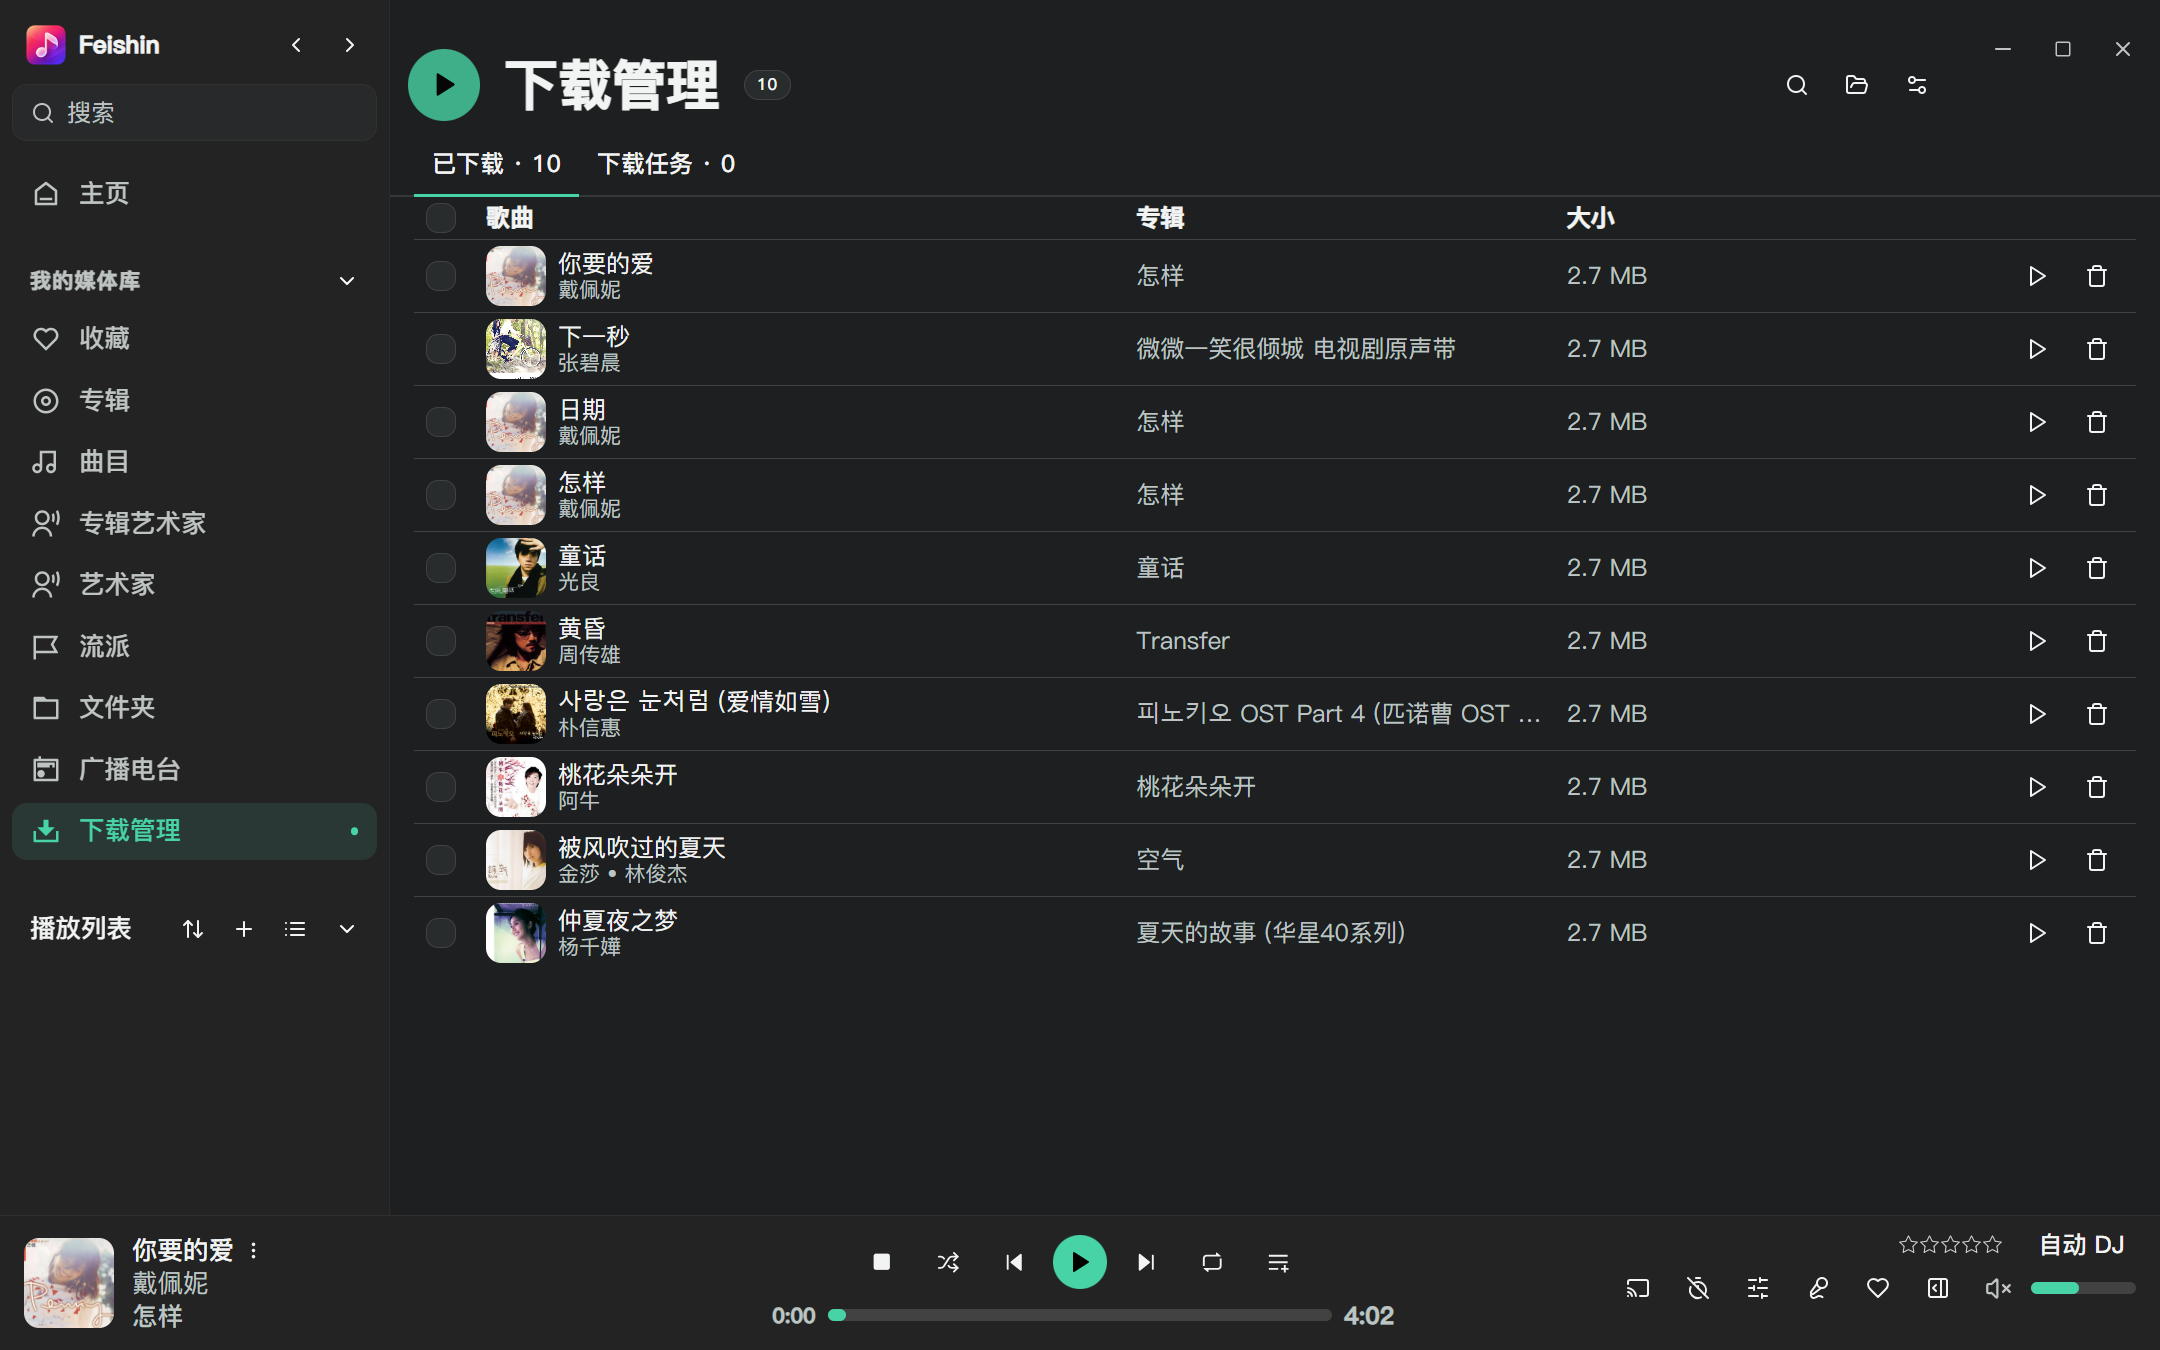
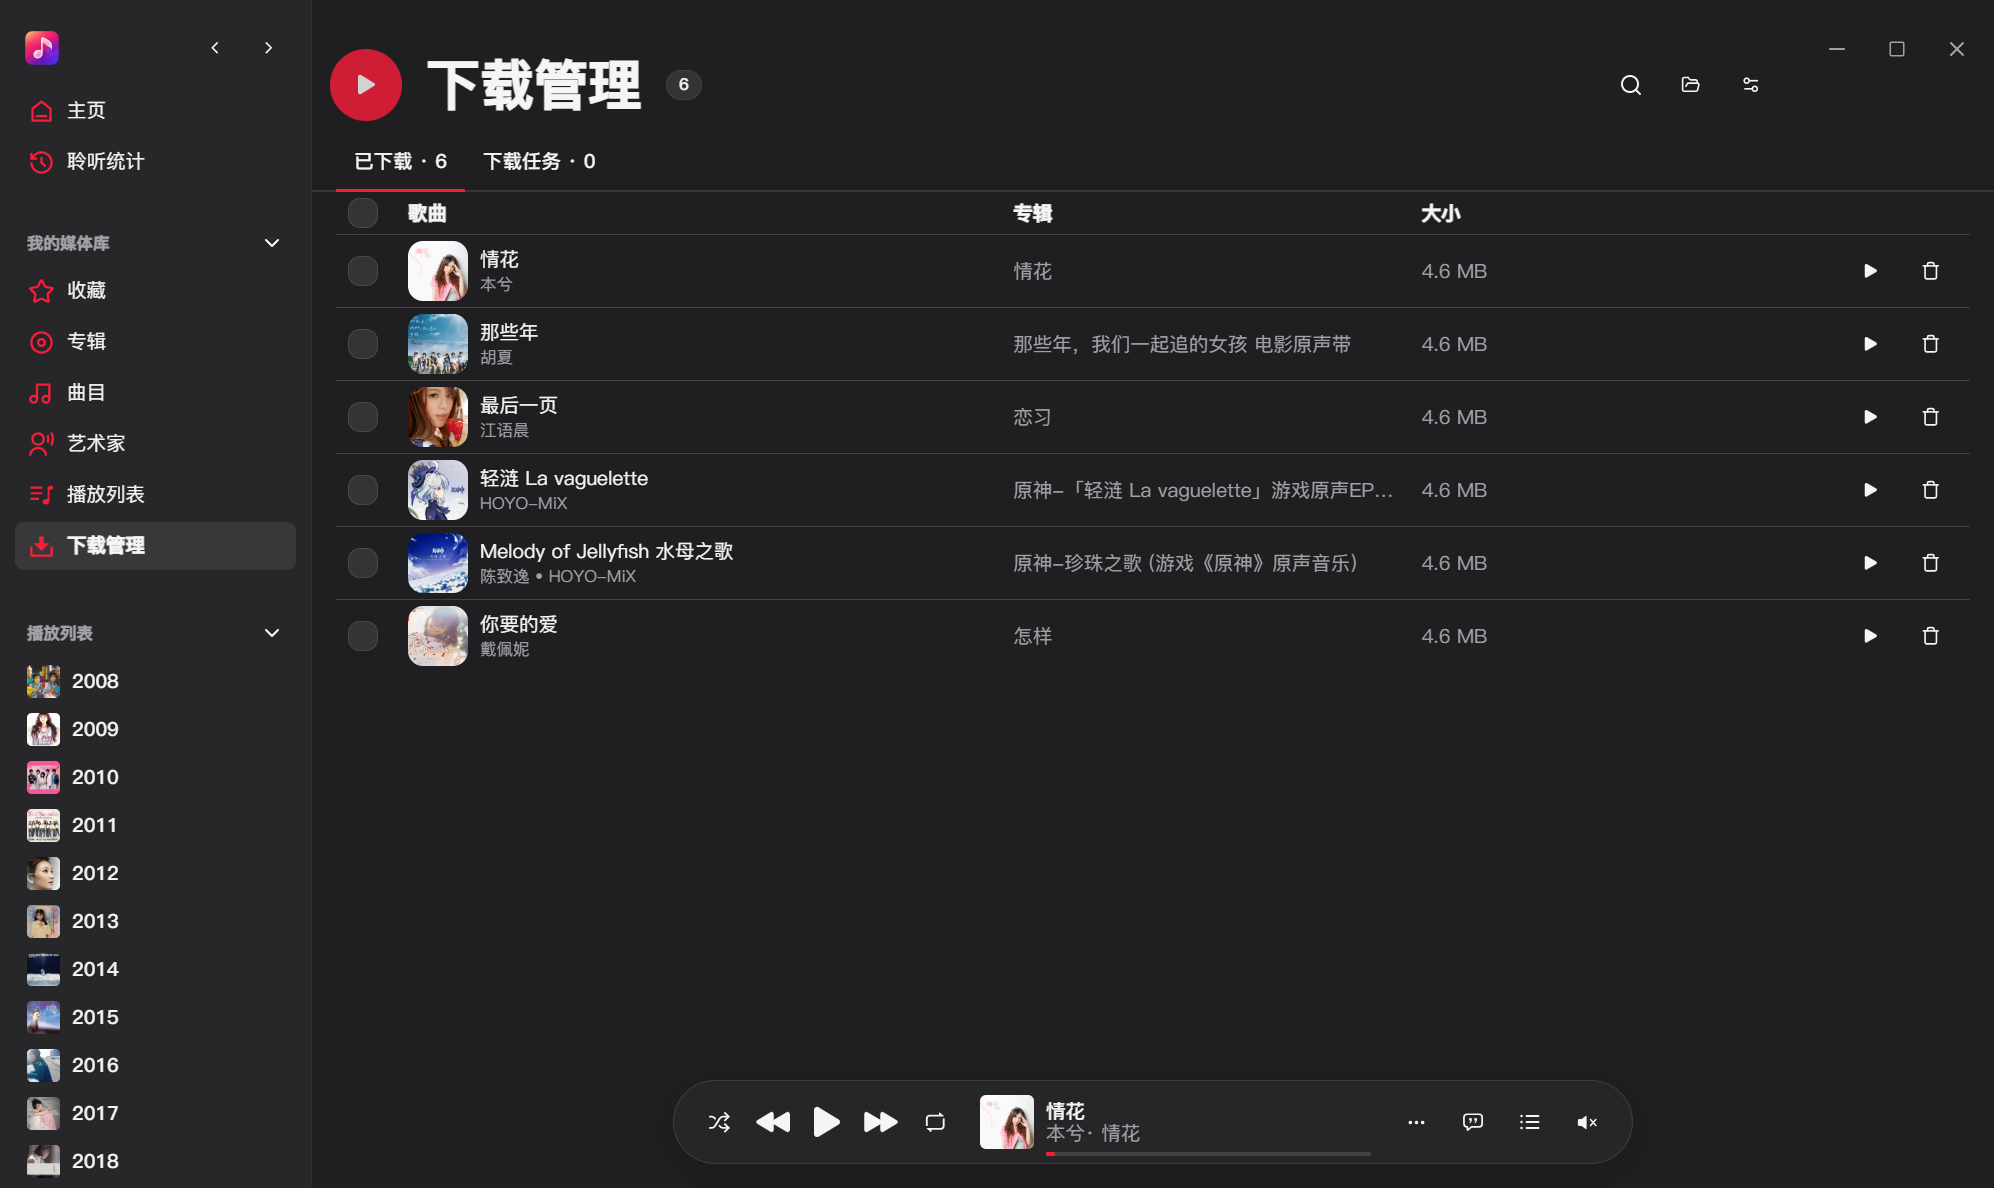
chore(release): prepare beta5 for Windows

diff --git a/docs/releases/2.0.0-beta.5.md b/docs/releases/2.0.0-beta.5.md
@@ -1,0 +1,22 @@
+# qMusic 2.0.0-beta.5
+
+本次更新重塑主界面，以 Apple Music 风格统一侧栏、悬浮播放条、图标和全屏播放器，保留原有首页内容及音乐库功能。
+
+## 更新内容
+
+- 重新设计首页与本周排行榜，统一页面间距、字体、配色和导航。聆听统计移到主页下方。
+- 更新侧栏标识和图标，修正收藏、搜索的对齐以及播放列表滚动。搜索在侧栏向上滚动时显示，并保留操作时间。
+- 加大悬浮播放条，统一歌曲信息字号，修正进度条显示。播放、上一首、下一首和音量控制增加动画。
+- 播放队列改为悬浮面板；全屏歌词页内沿用原有队列切换方式。精简更多操作与音量弹出面板。
+- 全屏播放器从播放条展开并收回，改进封面清晰度、动画衔接及关闭后的播放条显示。恢复右上角窗口控件自动隐藏，并上移播放控制和进度条。
+- 更新歌词、播放列表、收藏和自动 DJ 图标。移除歌词页导出与搜索入口，缩小歌词偏移控件。
+- 重写 README，并替换为新版界面截图。
+
+## 安装与更新
+
+- 本次仅发布 Windows 安装程序与 ZIP 压缩包，提供 x64 和 ARM64 架构。
+- x64 构建包含 MPV；ARM64 可使用内置播放器，或自行配置兼容的 MPV。
+- 如需自动接收预发布更新，请在高级设置中将更新通道设为 Beta。
+- 升级沿用已有服务器配置、播放设置、缓存与下载记录。默认下载目录仍为系统音乐文件夹下的 `Feishin` 目录。
+
+本项目基于 Feishin，保留上游作者和贡献者的版权声明。

diff --git a/docs/README.md b/docs/README.md
@@ -24,4 +24,5 @@
 ## 发布记录
 
 当前版本以[本仓库 Releases](https://github.com/liristy/feishin/releases)为准。
+[2.0.0-beta.5 发布说明](releases/2.0.0-beta.5.md)记录新版界面与 Windows 更新内容。
 [CHANGELOG](../CHANGELOG.md) 和 [1.16.0 发布说明](releases/1.16.0.md)保留历史记录。
